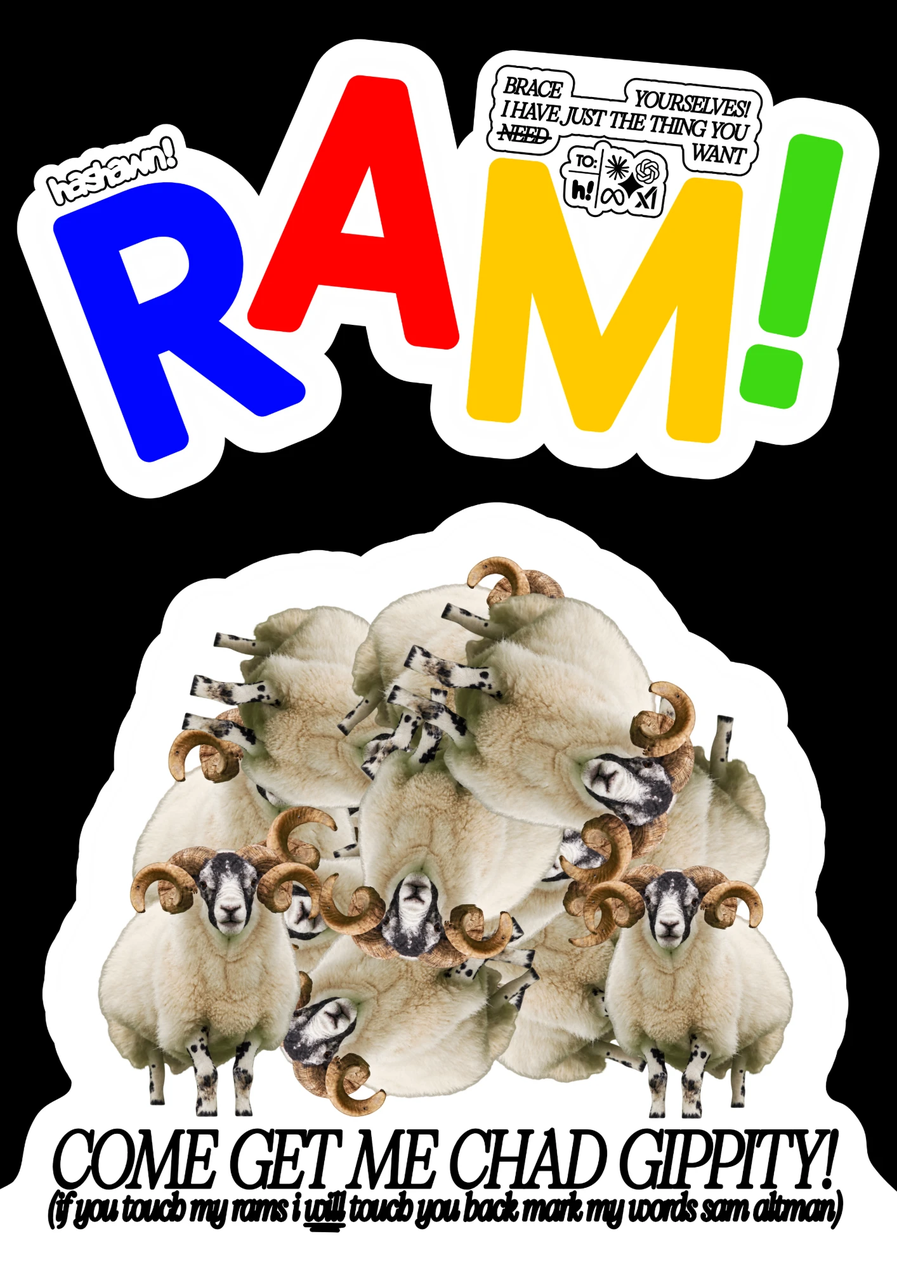
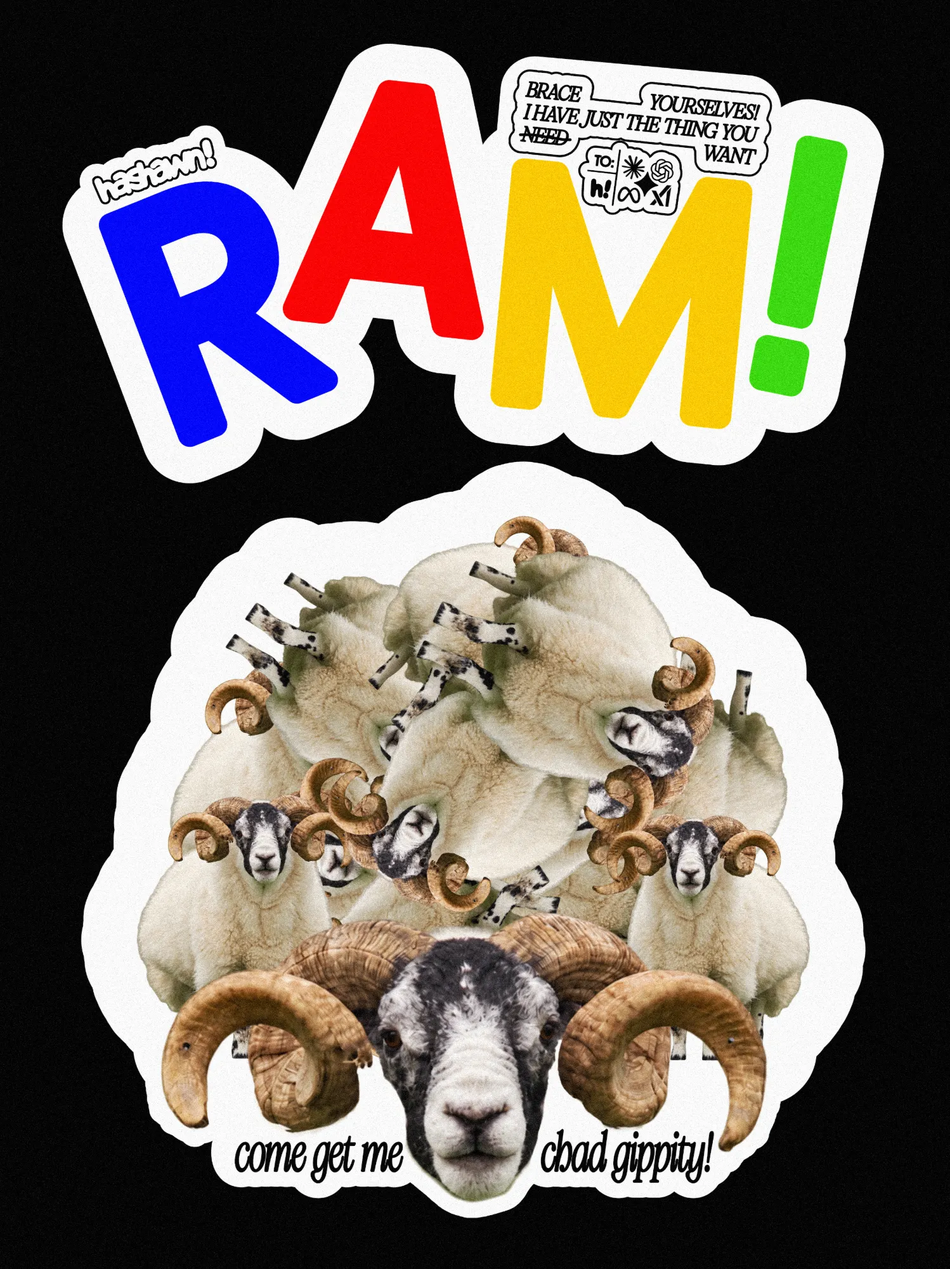
RAM! v2

diff --git a/index.html b/index.html
@@ -42,7 +42,7 @@
       <img src="assets/harvest-thumb.jpg" alt="Harvest Everything, a doodle poster" width="848" height="1200" loading="lazy">
     </a>
     <a class="poster" href="assets/ram.webp" data-title="RAM!">
-      <img src="assets/ram-thumb.jpg" alt="RAM!, a sticker poster of a pile of rams" width="848" height="1200" loading="lazy">
+      <img src="assets/ram-thumb.jpg" alt="RAM!, a sticker poster of a pile of rams" width="899" height="1200" loading="lazy">
     </a>
   </section>
 
